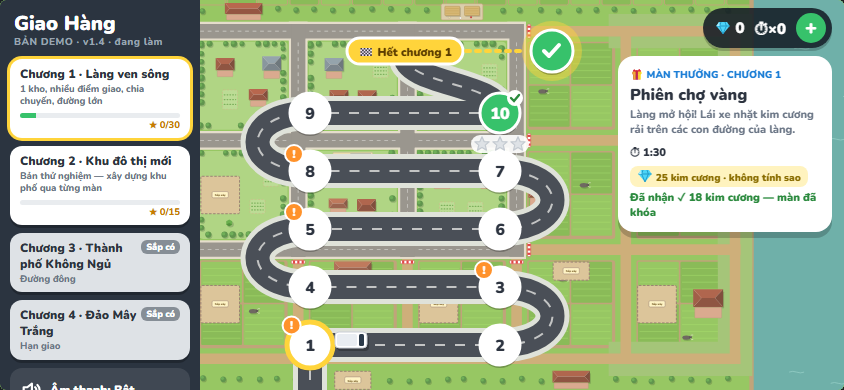
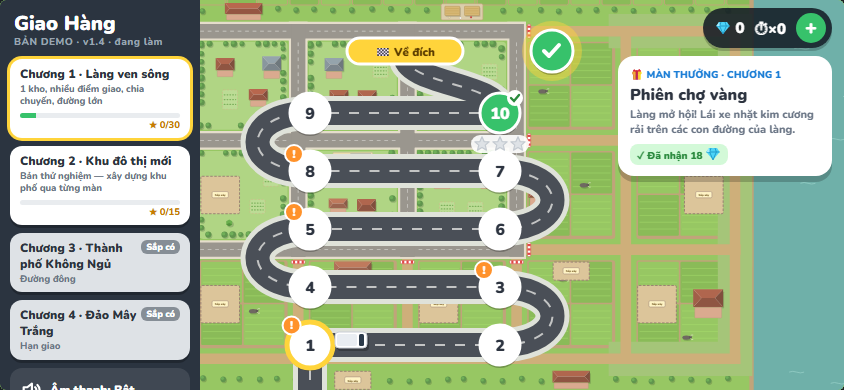
Trang chủ: cờ "Về đích", nút màn thưởng không đè lên cờ, thẻ thưởng gọn hơn

Changed region(s): [[0.7085, 0.3692, 0.9858, 0.6154], [0.4005, 0.1231, 0.6161, 0.1538]]

diff --git a/Game/demo/index.html b/Game/demo/index.html
@@ -524,7 +524,7 @@ const CH2_LV=addChapter(CH2,[
  {name:'Công viên trung tâm',intro:'Chọn xe phù hợp để hoàn thiện khu đô thị.',T0:150,vehicles:['may','van','tai'],
   missions:[{from:'BaiVL',to:'CongVien',qty:4},{from:'KhoTong',to:'BenhVien',qty:1},{from:'KhoTong',to:'ChoMoi',qty:2},{from:'KhoTong',to:'TiemBanh',qty:1}]}
 ]);
-const CH1_BONUS=addBonus(CH1); // màn 16 trong danh sách — hiện ở Trang chủ sau cờ Hết chương 1
+const CH1_BONUS=addBonus(CH1); // màn 16 trong danh sách — hiện ở Trang chủ sau cờ Về đích của Chương 1
 Object.assign(PLACE,{BaiVL:'Bãi vật liệu',KhoTong:'Kho tổng',XuongGo:'Xưởng gỗ',TiemBanh:'Tiệm bánh',TruongHoc:'Trường học',NhaVH:'Nhà văn hóa',
   NhaTre:'Nhà trẻ',ChoMoi:'Chợ mới',KhuNha:'Khu nhà ở',CongVien:'Công viên'});
 Object.assign(PCOL,{BaiVL:'#1c7ed6',KhoTong:'#1864ab',XuongGo:'#1971c2',TiemBanh:'#e64980',TruongHoc:'#f76707',NhaVH:'#7048e8',NhaTre:'#0ca678',
@@ -1435,7 +1435,7 @@ function drawHomeMap(){
   const fy=top[1]-stepY;d+=` C${top[0]} ${top[1]-30} 205 ${fy+30} 205 ${fy}`;
   road(d,24);
   const fg=hEl('g',{transform:`translate(205,${fy-4})`});hEl('rect',{x:-58,y:-13,width:116,height:26,rx:13,fill:'#ffd43b',stroke:'#fff','stroke-width':3},fg);
-  const ft=hEl('text',{y:5,'text-anchor':'middle','font-size':11.5,'font-weight':900,fill:'#5c3d00','font-family':'Nunito'},fg);ft.textContent='🏁 Hết chương '+(HCH+1);
+  const ft=hEl('text',{y:5,'text-anchor':'middle','font-size':11.5,'font-weight':900,fill:'#5c3d00','font-family':'Nunito'},fg);ft.textContent='🏁 Về đích';
   const cur=lv.find(k=>getBest(k)===null);
   if(HSEL===null||!(lv.includes(HSEL)||HSEL===ch.bonus))HSEL=cur!==undefined?cur:(ch.bonus!=null&&bonusOpen(ch)&&getBonus(ch.bonus)===null?ch.bonus:lv[0]);
   if(ch.bonus!=null){const op=bonusOpen(ch),got=getBonus(ch.bonus),bx=352,by=fy-4,g=hEl('g',{class:'nd','data-k':ch.bonus}); // màn thưởng (MT-5)
@@ -1445,8 +1445,7 @@ function drawHomeMap(){
     if(op&&got===null)hEl('animate',{attributeName:'r',values:'21;24;21',dur:'1.2s',repeatCount:'indefinite'},ci);
     if(got!==null)hEl('path',{d:`M${bx-8} ${by} l5 5 l10 -11`,fill:'none',stroke:'#fff','stroke-width':4,'stroke-linecap':'round','stroke-linejoin':'round'},g);
     else{const gc=op?'#e03131':'#868e96';hEl('rect',{x:bx-10,y:by-4,width:20,height:13,rx:2,fill:gc},g);hEl('rect',{x:bx-12,y:by-9,width:24,height:6,rx:2,fill:shade(gc,-.15)},g); // hộp quà
-      hEl('rect',{x:bx-2,y:by-9,width:4,height:18,fill:'#fff3bf'},g);hEl('path',{d:`M${bx} ${by-9} q-8 -9 -9 -1 M${bx} ${by-9} q8 -9 9 -1`,fill:'none',stroke:'#fff3bf','stroke-width':2.5},g);}
-    hEl('path',{d:`M266 ${fy-4} H324`,stroke:'#ffd43b','stroke-width':4,'stroke-dasharray':'4 6','stroke-linecap':'round'});}
+      hEl('rect',{x:bx-2,y:by-9,width:4,height:18,fill:'#fff3bf'},g);hEl('path',{d:`M${bx} ${by-9} q-8 -9 -9 -1 M${bx} ${by-9} q8 -9 9 -1`,fill:'none',stroke:'#fff3bf','stroke-width':2.5},g);}}
   P.forEach(([x,y],i)=>{const k=lv[i],best=getBest(k),done=best!==null,isCur=k===cur,sel=k===HSEL,r=isCur?23:20;
     const g=hEl('g',{class:'nd','data-k':k});
     if(sel)hEl('circle',{cx:x,cy:y,r:r+9,fill:'rgba(255,212,59,.45)'},g);
@@ -1465,8 +1464,8 @@ function drawHomeMap(){
   const L=LEVELS[HSEL],b=getBest(HSEL);
   if(L.bonus){const op=bonusOpen(ch),got=getBonus(HSEL);
     $('hCard').innerHTML=`<div class="n">🎁 MÀN THƯỞNG · CHƯƠNG ${HCH+1}</div><div class="t">${L.name}</div><div class="d">${L.intro}</div>
-      <div class="row"><span>⏱ ${fmt(L.T0)}</span><span class="tag">${GEM} ${L.gems.length} kim cương · không tính sao</span></div>`+
-      (got!==null?`<div class="d" style="color:#2b8a3e;font-weight:900">Đã nhận ✓ ${got} kim cương — màn đã khóa</div>`:op?'<button class="cta gold" id="bPlay">Chơi · nhận thưởng 1 lần</button>':'<div class="d" style="font-weight:900">🔒 Thắng màn 10 để mở</div>');return;}
+      <div class="row">${got!==null?`<span class="ok">✓ Đã nhận ${got} ${GEM}</span>`:`<span>⏱ ${fmt(L.T0)}</span><span class="tag">${GEM} ${L.gems.length} kim cương</span>`}</div>`+
+      (got!==null?'':op?'<button class="cta gold" id="bPlay">Chơi · nhận thưởng 1 lần</button>':'<div class="d" style="font-weight:900">🔒 Thắng màn 10 để mở</div>');return;}
   $('hCard').innerHTML=`<div class="n">MÀN ${HSEL+1} · CHƯƠNG ${HCH+1}</div><div class="t">${L.name}</div><div class="d">${L.intro}</div>
     <div class="row"><span>⏱ ${fmt(L.T0)}</span>${b!==null?`<span class="ok">${'★'.repeat(getStars(HSEL))}${'☆'.repeat(3-getStars(HSEL))} · Tốt nhất ${fmt(b)}</span>`:(newMech(HSEL)?`<span class="tag">! Cơ chế mới · ${MECH[HSEL]}</span>`:'')}</div>
     <button class="cta" id="bPlay">Chơi</button>`;

diff --git a/Game/CHANGELOG.md b/Game/CHANGELOG.md
@@ -17,6 +17,7 @@ Tài liệu yêu cầu: (ghi khi chốt)
 - **10 công trình của làng** (mỗi màn thắng một công trình, câu thông báo riêng): lều chợ, giếng làng, trường làng, cụm nhà Xóm Đông, trạm y tế, ao cá, đình làng, bến đò, nhà văn hóa, chợ phiên dưới gốc đa (Chợ phiên xây 2 giai đoạn: màn 1 và màn 10). Cảnh kết chương và bưu thiếp dùng lại cơ chế Chương 2.
 - `level_design/levels_ch1.py`, `ket_qua_ch1.json` (bộ giải), ảnh kiểm chứng `playtest_evidence/chuong1_v14/`.
 - **Màn thưởng kim cương cuối Chương 1 — "Phiên chợ vàng"** (D-73, YT-03): bản đồ làng hoàn thiện, 25 kim cương thành 7 cụm trên các tuyến (kể cả đường đê), xe đi qua là nhặt; T0 90 giây (vòng nhặt hết nhanh nhất khoảng 57 giây + 50%). Bộ đếm 💎 trên HUD, chấm kim cương trên mini map và bản đồ lớn; không tính sao, không dùng Thêm giờ. Kết thúc khi hết giờ hoặc nhặt hết → cộng đúng số đã nhặt vào ví và **khóa** màn; thoát giữa chừng không tính, chơi lại được. Trang chủ: nút hộp quà sau cờ Hết chương (xám = khóa, đỏ nhấp nháy = đã mở, xanh ✓ = đã nhận); hộp thoại kết chương báo "Màn thưởng kim cương đã mở!".
+- Trang chủ: cờ cuối con đường leo đổi chữ "Hết chương N" thành **"🏁 Về đích"**; nút màn thưởng đứng riêng bên phải cờ (bỏ đường nét đứt đè lên cờ); thẻ màn thưởng đã nhận chỉ hiện "✓ Đã nhận N 💎", chưa nhận chỉ hiện thời gian và số kim cương.
 - **Luật chơi lần đầu ở Màn 1** (D-70, PA-C): (1) thẻ "Cách chơi" rút gọn — mục tiêu "Giao đủ mọi kiện hàng trước khi hết giờ!" + 3 biểu tượng kho ▲ → điểm giao ▼ → đồng hồ, câu nhắc xem bản đồ để tự nghĩ đường đi; (2) 4 bước khoanh trên bản đồ chuẩn bị: kho, điểm giao + dòng nhiệm vụ, thời gian của màn, nút Bắt đầu (chạm để tiếp, có Bỏ qua); chỉ chạy lần đầu mở Màn 1. (3) Tab **"Luật chơi"** đầu tiên trong nút ? (mục tiêu, lên kế hoạch, lái xe, thua khi, sao). Hướng dẫn lúc lái xe (D-45) giữ nguyên.
 - **Hướng dẫn di chuyển Màn 1 luôn chạy** mỗi lần vào Màn 1 Chương 1 (D-72, thay "chỉ lần đầu" của D-45); "Bỏ qua hướng dẫn" chỉ bỏ qua lượt đang chơi.
 - **Hướng dẫn lái xe Màn 1 thêm mẹo Quay đầu đặt trước** (D-71, D-72): khi đã lấy đủ hàng ở kho và xe dừng ở điểm giao thứ nhất, game đứng hình, khoanh nút Quay đầu và nhắc có thể bấm để xe quay đầu ngay khi xong việc; bấm thử Quay đầu hoặc chạm vào lời nhắc để đi tiếp.
